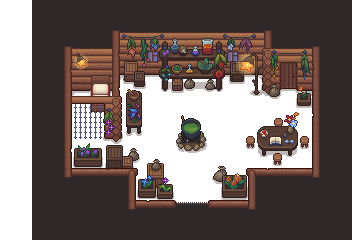
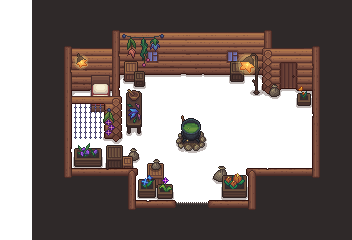
Fix phone collision mismatch, replace black-block glitch with video tearing, rugs walkable
- Every image load now carries the asset version, so a browser can no longer pair cached
  old map art with new collision grids (the cause of walls in the wrong places on phones)
- Cutscene glitch effect is horizontal frame tearing with a red/cyan fringe and a few
  dark specks instead of opaque black rectangles
- Interior baker treats large patches in furniture layers as rugs (walkable); wall layers
  are exempt

Changed region(s): [[0.4375, 0.1458, 0.75, 0.4083], [0.6875, 0.4667, 0.875, 0.7], [0.75, 0.2042, 0.875, 0.3208]]

diff --git a/index.html b/index.html
@@ -9,7 +9,7 @@
 <title>TheRPG · VEILBOUND</title>
 <link rel="preconnect" href="https://fonts.googleapis.com">
 <link href="https://fonts.googleapis.com/css2?family=Press+Start+2P&display=swap" rel="stylesheet">
-<link rel="stylesheet" href="css/style.css?v=20260904c">
+<link rel="stylesheet" href="css/style.css?v=20260904e">
 </head>
 <body>
 <canvas id="game"></canvas>
@@ -149,22 +149,23 @@
   <div class="menu"><button id="btn-again">Keep Exploring</button><button id="btn-quit3">Quit to Title</button></div>
 </div>
 
-<script src="assets/sprites.js?v=20260904c"></script>
-<script src="assets/maps/grassland/map.js?v=20260904c"></script>
-<script src="assets/maps/forest/map.js?v=20260904c"></script>
-<script src="assets/maps/cursed/map.js?v=20260904c"></script>
-<script src="assets/maps/greyhaven/map.js?v=20260904c"></script>
-<script src="assets/maps/hall_int/map.js?v=20260904c"></script>
-<script src="assets/maps/clinic_int/map.js?v=20260904c"></script>
-<script src="assets/maps/lift_int/map.js?v=20260904c"></script>
-<script src="js/audio.js?v=20260904c"></script>
-<script src="js/assets.js?v=20260904c"></script>
-<script src="js/map.js?v=20260904c"></script>
-<script src="js/entities.js?v=20260904c"></script>
-<script src="js/story.js?v=20260904c"></script>
-<script src="js/town.js?v=20260904c"></script>
-<script src="js/game.js?v=20260904c"></script>
-<script src="js/touch.js?v=20260904c"></script>
-<script src="js/main.js?v=20260904c"></script>
+<script>window.RPG = window.RPG || {}; RPG.ASSET_VERSION = "20260904e";</script>
+<script src="assets/sprites.js?v=20260904e"></script>
+<script src="assets/maps/grassland/map.js?v=20260904e"></script>
+<script src="assets/maps/forest/map.js?v=20260904e"></script>
+<script src="assets/maps/cursed/map.js?v=20260904e"></script>
+<script src="assets/maps/greyhaven/map.js?v=20260904e"></script>
+<script src="assets/maps/hall_int/map.js?v=20260904e"></script>
+<script src="assets/maps/clinic_int/map.js?v=20260904e"></script>
+<script src="assets/maps/lift_int/map.js?v=20260904e"></script>
+<script src="js/audio.js?v=20260904e"></script>
+<script src="js/assets.js?v=20260904e"></script>
+<script src="js/map.js?v=20260904e"></script>
+<script src="js/entities.js?v=20260904e"></script>
+<script src="js/story.js?v=20260904e"></script>
+<script src="js/town.js?v=20260904e"></script>
+<script src="js/game.js?v=20260904e"></script>
+<script src="js/touch.js?v=20260904e"></script>
+<script src="js/main.js?v=20260904e"></script>
 </body>
 </html>

diff --git a/assets/maps/hall_int/map.js b/assets/maps/hall_int/map.js
@@ -1,3 +1,3 @@
 window.RPG = window.RPG || {};
 RPG.MAPS = RPG.MAPS || {};
-RPG.MAPS["hall_int"] = {"zone": "hall_int", "kind": "interior", "label": "Hunter Hall", "w": 26, "h": 22, "tile": 16, "waterFrames": 1, "solid": "11111111111111111111111111111111111111111111111111111111111111111111111111111111111111111111111111111111111111111111111111111111111111111111111111111111111111111111111111111111111111111111111111111111111111111111111111000000000001111111111111100000010100011111111110000000000011111111111111111110011110110111111111111111101111101100111111111111111011111000000111111111111000011110000001111111111000000000000000011111111111111111111111111111111111111111111111111111111111111111111111111111111111111111111111111111111111111111111111111111111111111111111111111111111111111111", "entry": [8, 14], "exit": [8, 14], "walkable": 73, "npcs": [{"id": "mira", "sprite": "npcs/mira", "x": 248, "y": 236, "dir": 2}], "objects": [{"id": "hearth", "x": 184, "y": 136, "radius": 24}], "exitTo": {"zone": "greyhaven", "cell": [40, 13]}};
+RPG.MAPS["hall_int"] = {"zone": "hall_int", "kind": "interior", "label": "Hunter Hall", "w": 26, "h": 22, "tile": 16, "waterFrames": 1, "solid": "11111111111111111111111111111111111111111111111111111111111111111111111111111111111111111111111111111111111111111111111111111111111111111111111111111111111111111111111111111111111111111111111111111111111111111111111111000000000001111111111111100000000100011111111110000000000011111111111111111110000000110111111111111111100000001100111111111111111000000000000111111111100000000000000001111111111000000000000000011111111111111111111111111111111111111111111111111111111111111111111111111111111111111111111111111111111111111111111111111111111111111111111111111111111111111111", "entry": [8, 14], "exit": [8, 14], "walkable": 94, "npcs": [{"id": "mira", "sprite": "npcs/mira", "x": 248, "y": 236, "dir": 2}], "objects": [{"id": "hearth", "x": 184, "y": 136, "radius": 24}], "exitTo": {"zone": "greyhaven", "cell": [40, 13]}};

diff --git a/js/story.js b/js/story.js
@@ -373,14 +373,27 @@ window.RPG = window.RPG || {};
         }
       }
       if (f.glitch > 0.01) {
-        const n = Math.floor(f.glitch * 18);
-        const seed = Math.floor(this.time * 14);
-        for (let i = 0; i < n; i++) {
-          const r = this.rand(seed * 31 + i * 7);
-          const bw = 6 + r * 40, bh = 3 + this.rand(seed + i * 13) * 14;
-          const bx = this.rand(seed * 3 + i) * w, by = this.rand(seed * 5 + i * 11) * h;
-          ctx.fillStyle = this.rand(seed + i) > 0.5 ? 'rgba(15,15,20,' + f.glitch + ')' : 'rgba(120,120,130,' + f.glitch * 0.8 + ')';
-          ctx.fillRect(Math.round(bx), Math.round(by), Math.round(bw), Math.round(bh));
+        // video tearing: thin horizontal slices of the frame shoved sideways, with a red/cyan
+        // fringe, plus a few dark specks. Never opaque blocks, so it reads as interference
+        // rather than missing tiles.
+        const seed = Math.floor(this.time * 12);
+        const n = Math.floor(2 + f.glitch * 9);
+        const src = ctx.canvas;
+        for (let i = 0; i < n && src.width > 0 && src.height > 0; i++) {
+          const y = Math.floor(this.rand(seed * 17 + i * 3) * h);
+          const sh = 1 + Math.floor(this.rand(seed + i * 7) * 4 * f.glitch);
+          const dx = Math.round((this.rand(seed * 5 + i) - 0.5) * 30 * f.glitch);
+          if (!dx) continue;
+          ctx.drawImage(src, 0, y, w, sh, dx, y, w, sh);
+          ctx.globalAlpha = 0.25 * f.glitch;
+          ctx.fillStyle = this.rand(seed + i * 11) > 0.5 ? '#ff3b5c' : '#4fd6c8';
+          ctx.fillRect(0, y, w, 1);
+          ctx.globalAlpha = 1;
+        }
+        const specks = Math.floor(f.glitch * 40);
+        ctx.fillStyle = 'rgba(8,8,12,' + (0.5 * f.glitch) + ')';
+        for (let i = 0; i < specks; i++) {
+          ctx.fillRect(Math.floor(this.rand(seed * 3 + i * 13) * w), Math.floor(this.rand(seed * 9 + i * 5) * h), 2 + Math.floor(this.rand(i) * 3), 1);
         }
       }
       if (f.static > 0.01) {

diff --git a/assets/maps/lift_int/map.js b/assets/maps/lift_int/map.js
@@ -1,3 +1,3 @@
 window.RPG = window.RPG || {};
 RPG.MAPS = RPG.MAPS || {};
-RPG.MAPS["lift_int"] = {"zone": "lift_int", "kind": "interior", "label": "Lift Station \u2014 Under-Room", "w": 22, "h": 17, "tile": 16, "waterFrames": 1, "solid": "11111111111111111111111111111111111111111111111100000111100000111111100000111111000001111100010011110110010011110101010100001000101111000000001100000000111100000100110010010011110000010001001001001111000000000000000000111101000000000001101011110100100100101110001111000000000000000000111110000000000000000111111100000000000000111111111111111111111111111111111111111111111111", "entry": [11, 14], "exit": [11, 14], "walkable": 176, "npcs": [], "objects": [{"id": "vault", "x": 168, "y": 72, "radius": 28}], "exitTo": {"zone": "greyhaven", "cell": [69, 13]}};
+RPG.MAPS["lift_int"] = {"zone": "lift_int", "kind": "interior", "label": "Lift Station \u2014 Under-Room", "w": 22, "h": 17, "tile": 16, "waterFrames": 1, "solid": "11111111111111111111111111111111111111111111111100000000000000111111100000000000000001111100010010000000010011110101000100000000101111000000000000000000111100000000000000010011110000000000000001001111000000000000000000111101000000000001101011110100000000001000001111000000000000000000111110000000000000000111111100000000000000111111111111111111111111111111111111111111111111", "entry": [11, 14], "exit": [11, 14], "walkable": 207, "npcs": [], "objects": [{"id": "vault", "x": 168, "y": 72, "radius": 28}], "exitTo": {"zone": "greyhaven", "cell": [69, 13]}};

diff --git a/assets/maps/clinic_int/map.js b/assets/maps/clinic_int/map.js
@@ -1,3 +1,3 @@
 window.RPG = window.RPG || {};
 RPG.MAPS = RPG.MAPS || {};
-RPG.MAPS["clinic_int"] = {"zone": "clinic_int", "kind": "interior", "label": "The Clinic", "w": 22, "h": 15, "tile": 16, "waterFrames": 1, "solid": "111111111111111111111111111111111111111111111111111111111111111111111111111111111111111111111111111111111111111111111000110100111111111111111000000000001111111111100000000000111111111100011000111011111111110000000011001111111111010000000001111111111101000010111111111111111000000111111111111111111111111111111111111111111111111111", "entry": [7, 5], "exit": [7, 5], "walkable": 67, "npcs": [{"id": "healer", "sprite": "npcs/healer", "x": 248, "y": 140, "dir": 2}], "objects": [], "exitTo": {"zone": "greyhaven", "cell": [14, 24]}};
+RPG.MAPS["clinic_int"] = {"zone": "clinic_int", "kind": "interior", "label": "The Clinic", "w": 22, "h": 15, "tile": 16, "waterFrames": 1, "solid": "111111111111111111111111111111111111111111111111111111111111111111111111111111111111111111111111111111111111111111111000000000111111111111111000000000001111111111100000000000111111111100011000000011111111110000000000001111111111010000000001111111111101000010111111111111111000000111111111111111111111111111111111111111111111111111", "entry": [7, 5], "exit": [7, 5], "walkable": 75, "npcs": [{"id": "healer", "sprite": "npcs/healer", "x": 248, "y": 140, "dir": 2}], "objects": [], "exitTo": {"zone": "greyhaven", "cell": [14, 24]}};

diff --git a/js/assets.js b/js/assets.js
@@ -18,7 +18,7 @@ RPG.Assets = {
       this.pending++;
       im.onload = () => { this.loaded++; };
       im.onerror = () => { this.loaded++; console.warn('Missing image:', src); };
-      im.src = src;
+      im.src = src + (RPG.ASSET_VERSION ? (src.includes('?') ? '&' : '?') + 'v=' + RPG.ASSET_VERSION : '');
       this.images[src] = im;
     }
     return im;

diff --git a/tools/build_greyhaven.py b/tools/build_greyhaven.py
@@ -284,6 +284,29 @@ def bake_town(preview_dir):
         preview(out_dir, solid, meta, os.path.join(preview_dir, 'collision_greyhaven.png'))
 
 
+RUG_MIN_CELLS = 14
+
+
+def clusters(cells):
+    seen, out = set(), []
+    for start in cells:
+        if start in seen:
+            continue
+        group, stack = [], [start]
+        seen.add(start)
+        while stack:
+            c = stack.pop()
+            group.append(c)
+            for dx in (-1, 0, 1):
+                for dy in (-1, 0, 1):
+                    n = (c[0] + dx, c[1] + dy)
+                    if n in cells and n not in seen:
+                        seen.add(n)
+                        stack.append(n)
+        out.append(group)
+    return out
+
+
 def bake_interior(zone, cfg, preview_dir):
     layers, _ = T.load_tmx(cfg['tmx'])
     minx, miny, maxx, maxy = T.extent(layers)
@@ -306,6 +329,12 @@ def bake_interior(zone, cfg, preview_dir):
             continue
         floor_part = {p: t for p, t in cells.items() if t[:2] in floor_keys or 'crack' in os.path.basename(t[0]).lower()}
         wall_part = {p: t for p, t in cells.items() if p not in floor_part}
+        # rugs: a big connected patch in a furniture layer is something you walk on, not into
+        # (wall layers are exempt: their walls form one big patch too)
+        for group in clusters(wall_part) if not n.startswith('wall') else []:
+            if len(group) >= RUG_MIN_CELLS:
+                for c in group:
+                    floor_part[c] = wall_part.pop(c)
         if floor_part:
             split.append((name + '#floor', floor_part))
             ground.append(name + '#floor')
